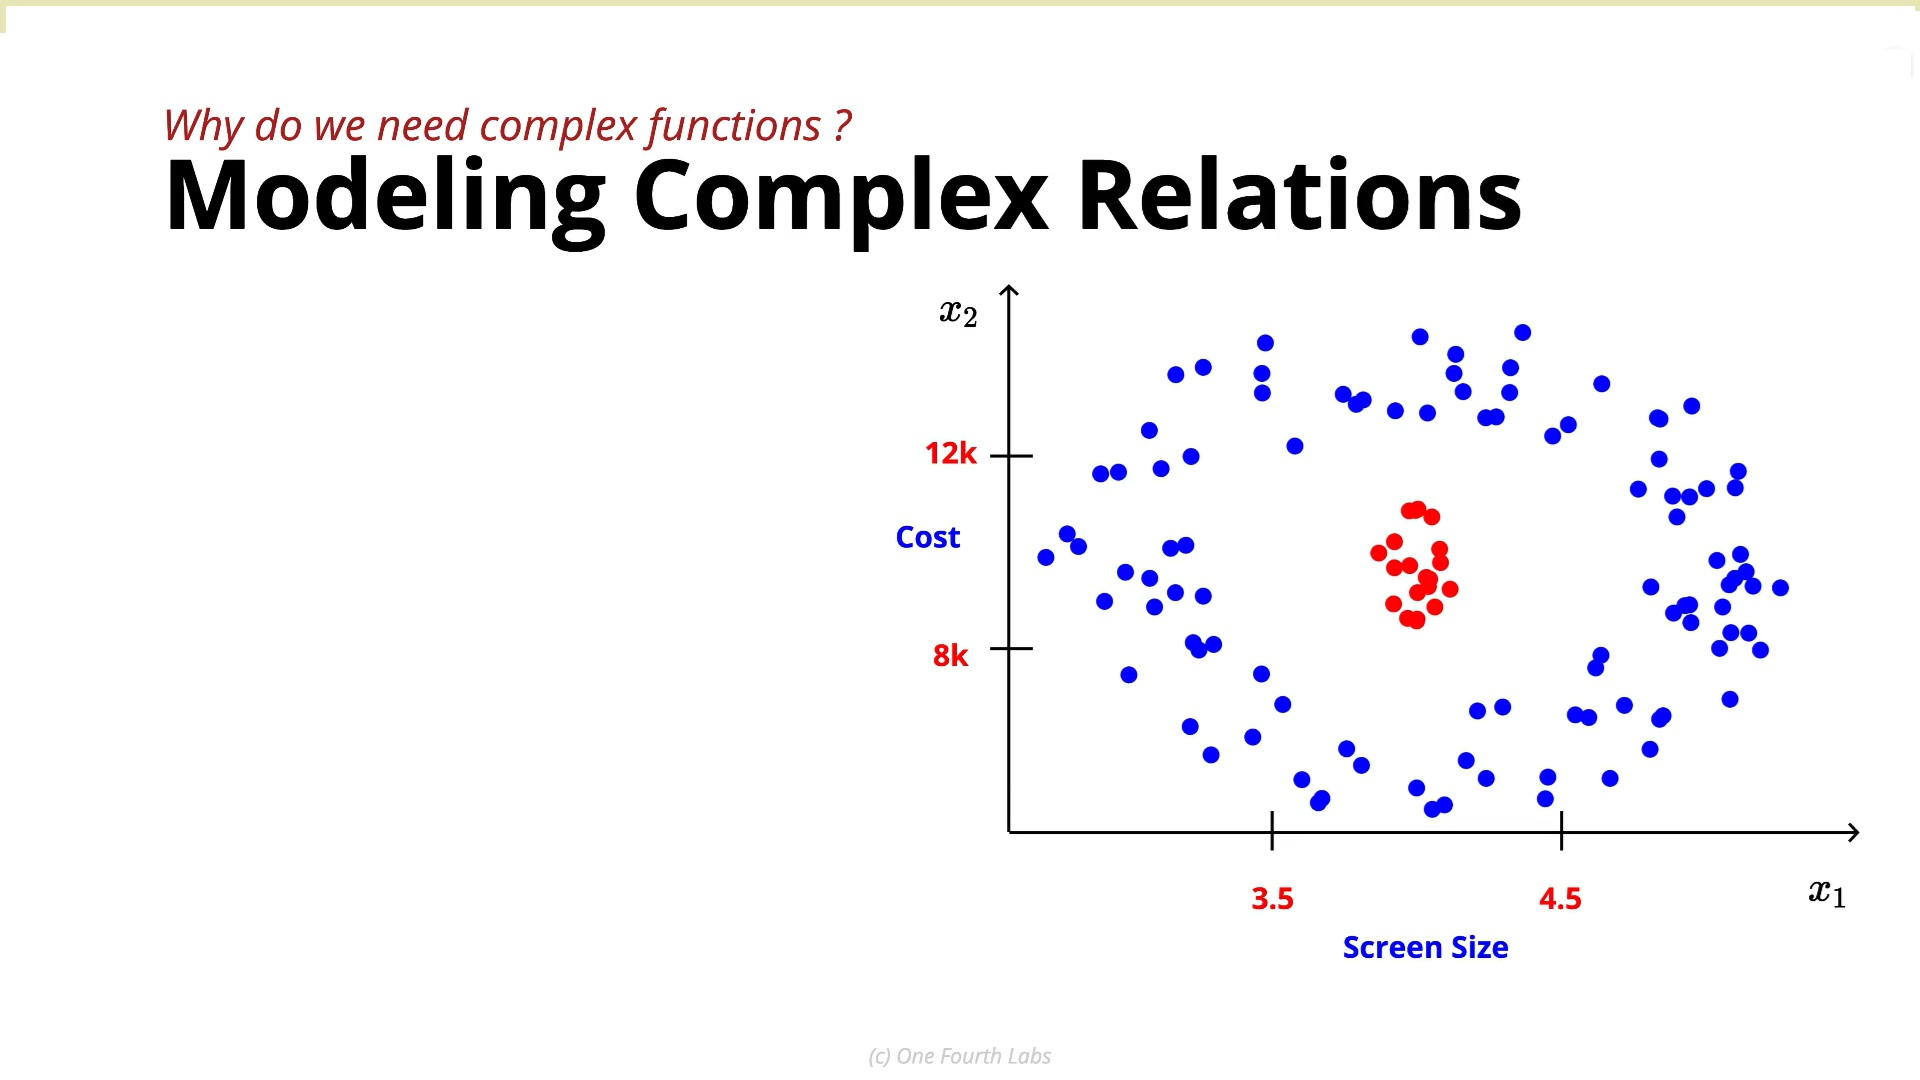
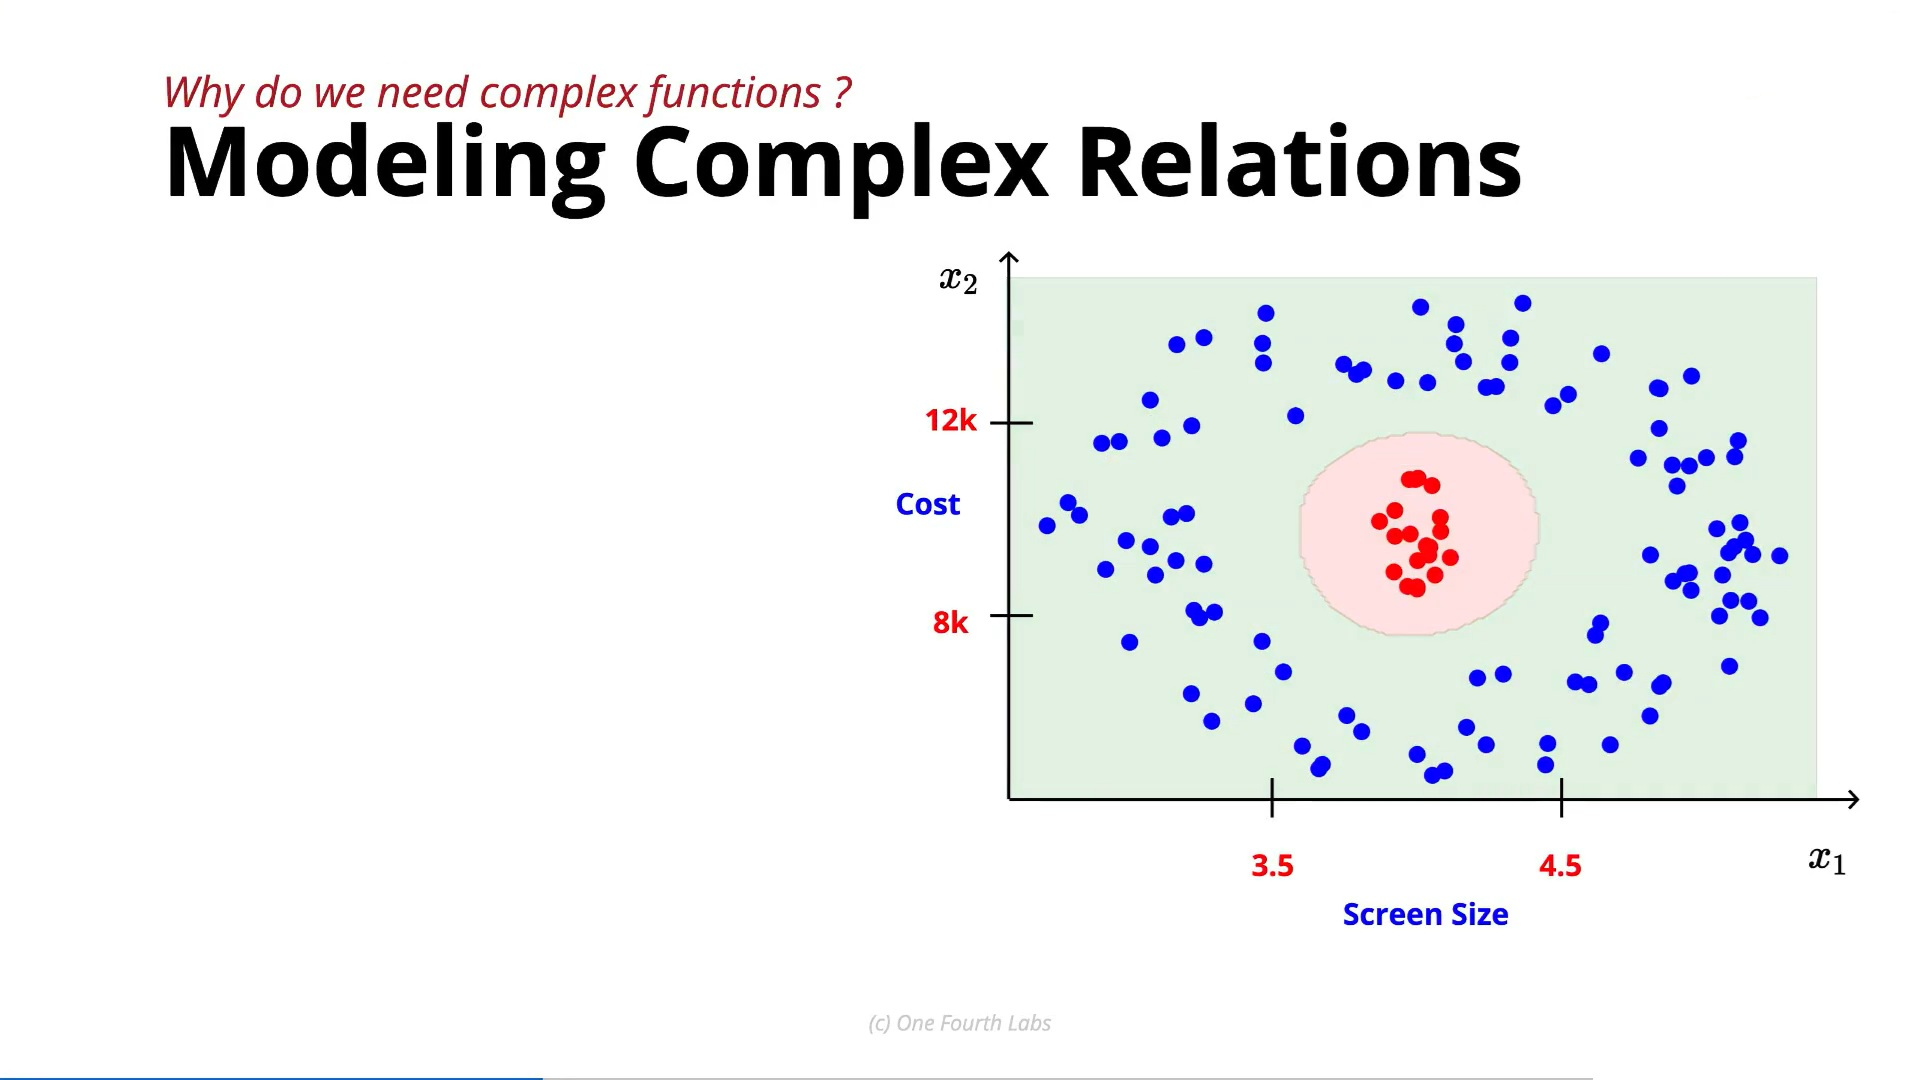
Complex Functions

diff --git a/10. Feed Forward Neural Networks/02-complex-functions.md b/10. Feed Forward Neural Networks/02-complex-functions.md
@@ -1,0 +1,86 @@
+# Complex Functions in Real-World Data
+
+This lecture continues the previous discussion about **why simple models such as perceptrons and sigmoid neurons are not enough**.
+
+The lecture focuses on two big questions:
+
+1. **Do complex functions actually occur in real-world problems?**
+2. **If yes, how can we construct such complex functions?**
+
+---
+
+### 1. Real-World Data Is Often Non-Linearly Separable
+
+The lecturer shows several real-world datasets to demonstrate that input-output relationships are often highly complex.
+
+#### Example 1: Income Prediction
+A census dataset contains features such as:
+* Age
+* Hours worked per week
+* Years of education
+
+**Goal:** Predict whether a person's income is **>50K** or **<50K**.
+
+When data points are plotted by income class, the two classes are thoroughly mixed together. There is **no single straight line or hyperplane** that can separate them. In some regions, nearby points belong to completely different classes, so a single linear boundary or a single sigmoid function cannot model the data accurately.
+
+---
+
+### 2. Medical & Behavioral Examples
+
+#### Indian Liver Patient Data
+* **Features:** Age, albumin level, bilirubin level, and other medical measurements.
+* **Goal:** Predict the presence of liver disease.
+* **Surface Shape:** Positive and negative cases overlap in multiple clusters. The required decision surface must be **wavy and multi-peaked**—rising to $1$ in specific regions and dropping to $0$ nearby.
+
+#### Titanic Survival Prediction
+* **Features:** Ticket class, fare, passenger age, etc.
+* **Goal:** Predict whether a passenger survived.
+* **Surface Shape:** Classes are mixed non-linearly, making simple monotonic models inadequate.
+
+---
+
+### 3. What Kind of Function Do We Actually Need?
+
+For simple non-linear datasets, we might only need a single bounded region:
+
+However, for complex real-world datasets, the function may need multiple peaks and valleys:
+
+Meaning:
+* Output rises to $1$ in certain regions
+* Drops to $0$ in intermediate zones
+* Rises to $1$ again elsewhere depending on the input
+
+In high-dimensional spaces with multiple features, this becomes an extremely intricate **multi-dimensional decision surface**.
+
+---
+
+### 4. The Main Problem
+
+We know that training a model means finding an approximating function:
+
+$$\hat{y} = \hat{f}(x)$$
+
+#### The Core Challenge
+For simple functions, we can explicitly write standard parametric forms:
+
+$$\sin(x), \quad \cos(x), \quad \sigma(w^T x + b)$$
+
+However, for a complicated real-world dataset with many features, we **cannot manually guess or hand-write** the exact mathematical form of $\hat{f}(x_1, x_2, x_3, \dots)$.
+
+---
+
+### The Core Idea
+
+$$\text{Real-World Data} \longrightarrow \text{Complex Non-Linear Boundaries} \longrightarrow \text{Simple Models Fail} \longrightarrow \text{Requires Complex Functions} \longrightarrow \text{How Do We Construct Them?}$$
+
+The next lecture answers this challenge by introducing a systematic recipe:
+
+> **Starting with simple base functions (neurons) and combining/layering them to build arbitrarily complex functions.**
+
+*This concept forms the exact foundation for **Feedforward Neural Networks**.*
+
+---
+
+### In One Sentence
+
+> **Real-world datasets often have highly complex, non-linear relationships, requiring a systematic method to combine simple functions into complex, trainable decision surfaces.**
